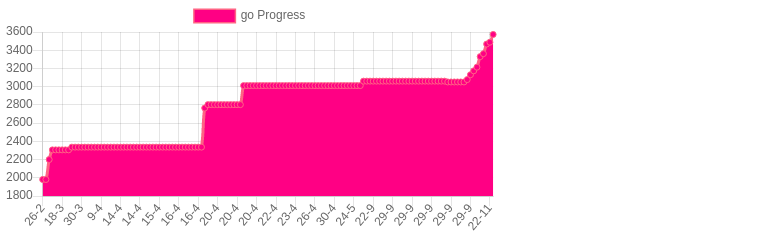
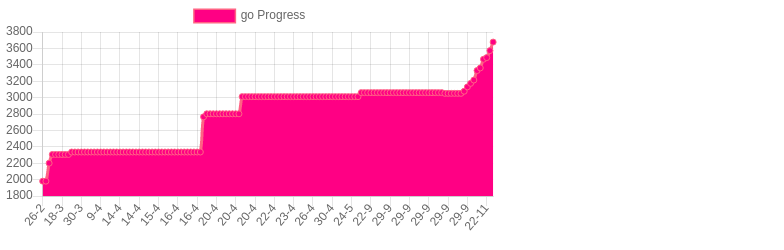
GO: gin login and logout

diff --git a/total.html b/total.html
@@ -9,7 +9,7 @@
         <script src="https://cdn.jsdelivr.net/npm/chart.js@2.8.0"></script>
         <script>
           var ctx = document.getElementById("total").getContext("2d");
-          const goLabelsDates = ["2021-02-27T01:37:43.112Z","2021-02-27T01:38:01.628Z","2021-03-01T13:41:18.753Z","2021-03-01T14:53:41.991Z","2021-03-01T15:08:00.851Z","2021-03-01T15:09:10.635Z","2021-03-01T15:22:55.385Z","2021-03-03T15:31:41.151Z","2021-03-05T14:02:13.446Z","2021-03-10T14:50:13.297Z","2021-03-11T01:54:03.424Z","2021-03-11T15:32:47.647Z","2021-03-11T16:01:51.191Z","2021-03-12T00:36:04.646Z","2021-03-13T00:14:58.179Z","2021-03-16T05:30:04.043Z","2021-03-17T21:17:52.181Z","2021-03-18T03:42:56.998Z","2021-03-18T03:44:29.834Z","2021-03-18T03:45:35.160Z","2021-03-18T03:45:54.668Z","2021-03-18T03:48:46.007Z","2021-03-18T05:10:54.427Z","2021-03-18T05:44:13.724Z","2021-03-18T05:56:11.032Z","2021-03-18T22:11:28.339Z","2021-03-19T11:28:55.383Z","2021-03-22T13:51:43.977Z","2021-03-23T01:52:09.452Z","2021-03-23T15:45:53.765Z","2021-03-24T01:46:02.104Z","2021-03-30T10:56:50.711Z","2021-04-01T15:03:17.764Z","2021-04-01T23:15:02.096Z","2021-04-07T19:21:55.040Z","2021-04-08T15:21:14.479Z","2021-04-09T23:17:58.037Z","2021-04-09T23:32:26.341Z","2021-04-09T23:34:42.049Z","2021-04-09T23:36:18.092Z","2021-04-10T01:45:40.218Z","2021-04-12T15:41:26.676Z","2021-04-14T02:00:41.039Z","2021-04-14T20:02:44.141Z","2021-04-14T21:14:15.821Z","2021-04-14T22:06:37.573Z","2021-04-14T22:42:14.693Z","2021-04-14T23:10:13.243Z","2021-04-14T23:22:54.824Z","2021-04-14T23:49:37.009Z","2021-04-15T02:28:51.974Z","2021-04-15T14:33:50.618Z","2021-04-15T15:09:11.104Z","2021-04-15T20:35:30.580Z","2021-04-16T00:04:33.158Z","2021-04-16T01:36:06.294Z","2021-04-16T01:53:35.992Z","2021-04-16T02:00:15.474Z","2021-04-16T16:08:40.977Z","2021-04-16T16:27:06.953Z","2021-04-16T16:59:30.526Z","2021-04-16T17:00:53.737Z","2021-04-16T23:14:36.283Z","2021-04-17T00:39:16.890Z","2021-04-17T01:11:09.986Z","2021-04-17T01:32:30.011Z","2021-04-17T01:44:22.446Z","2021-04-17T01:44:33.941Z","2021-04-17T02:35:55.774Z","2021-04-19T15:41:31.091Z","2021-04-20T15:32:32.239Z","2021-04-20T15:33:16.014Z","2021-04-20T15:36:11.438Z","2021-04-20T15:38:44.606Z","2021-04-20T15:41:50.350Z","2021-04-20T15:44:34.448Z","2021-04-20T15:46:49.295Z","2021-04-20T15:47:24.048Z","2021-04-20T15:56:22.046Z","2021-04-20T16:00:02.540Z","2021-04-20T16:01:15.511Z","2021-04-20T23:19:23.938Z","2021-04-21T00:40:54.443Z","2021-04-21T00:47:22.662Z","2021-04-21T02:01:09.006Z","2021-04-21T02:19:22.734Z","2021-04-21T15:53:36.038Z","2021-04-21T16:21:45.704Z","2021-04-21T16:26:32.790Z","2021-04-21T16:40:24.916Z","2021-04-21T16:43:40.235Z","2021-04-21T16:43:59.719Z","2021-04-21T16:44:40.304Z","2021-04-21T16:46:13.191Z","2021-04-21T16:48:41.898Z","2021-04-21T16:49:08.753Z","2021-04-21T16:50:32.397Z","2021-04-21T16:51:58.778Z","2021-04-23T00:49:32.826Z","2021-04-23T15:03:06.320Z","2021-04-23T15:04:13.039Z","2021-04-23T15:05:25.923Z","2021-04-23T15:11:04.285Z","2021-04-23T15:11:38.826Z","2021-04-23T15:12:05.618Z","2021-04-23T15:12:32.508Z","2021-04-23T15:13:17.058Z","2021-04-23T17:08:27.046Z","2021-04-23T18:02:30.357Z","2021-04-23T22:58:36.946Z","2021-04-23T23:00:26.027Z","2021-04-23T23:52:58.438Z","2021-04-24T01:12:51.525Z","2021-04-24T02:01:46.612Z","2021-04-26T12:46:47.336Z","2021-04-26T13:13:50.946Z","2021-04-26T13:16:04.473Z","2021-04-27T00:11:42.582Z","2021-04-30T03:26:37.101Z","2021-04-30T04:33:42.472Z","2021-04-30T05:15:42.646Z","2021-04-30T14:31:10.927Z","2021-05-04T01:51:49.907Z","2021-05-21T00:30:21.777Z","2021-05-24T15:07:09.579Z","2021-05-24T15:08:05.658Z","2021-05-24T15:22:20.903Z","2021-05-24T15:33:34.626Z","2021-05-24T15:46:16.101Z","2021-05-24T15:48:12.171Z","2021-05-24T15:53:54.498Z","2021-05-24T15:56:18.488Z","2021-05-28T22:50:32.914Z","2021-06-02T17:58:30.866Z","2021-07-01T05:04:25.826Z","2021-07-01T05:05:33.079Z","2021-09-03T16:56:54.023Z","2021-09-23T00:10:19.737Z","2021-09-23T00:54:30.987Z","2021-09-25T00:13:33.106Z","2021-09-25T00:56:09.874Z","2021-09-29T20:37:10.460Z","2021-09-29T20:39:45.107Z","2021-09-29T20:45:08.406Z","2021-09-29T20:45:42.995Z","2021-09-29T20:51:54.166Z","2021-09-29T21:04:45.487Z","2021-09-29T21:22:49.580Z","2021-09-29T21:23:34.860Z","2021-09-29T21:24:52.804Z","2021-09-29T21:25:12.938Z","2021-09-29T21:31:41.466Z","2021-09-29T21:32:02.856Z","2021-09-29T21:32:15.096Z","2021-09-29T21:37:01.273Z","2021-09-29T21:39:46.109Z","2021-09-29T21:40:23.862Z","2021-09-29T21:41:38.242Z","2021-09-29T21:45:36.053Z","2021-09-29T21:48:31.229Z","2021-09-29T21:49:46.414Z","2021-09-29T21:50:16.628Z","2021-09-29T21:52:23.035Z","2021-09-29T21:58:46.153Z","2021-09-29T21:59:06.075Z","2021-09-29T22:09:34.545Z","2021-09-29T22:24:59.487Z","2021-09-29T22:39:38.616Z","2021-09-29T23:07:40.178Z","2021-10-01T13:21:48.217Z","2021-10-01T14:11:47.682Z","2021-10-05T00:24:42.303Z","2021-10-05T14:36:34.233Z","2021-10-05T15:30:47.628Z","2021-10-13T14:16:32.194Z","2021-10-14T20:31:14.540Z","2021-10-15T02:04:50.667Z","2021-10-22T22:01:46.214Z","2021-10-26T00:04:54.365Z","2021-10-26T00:05:44.432Z","2021-10-26T13:52:24.065Z","2021-10-26T14:08:20.572Z","2021-11-11T01:24:39.296Z","2021-11-11T02:12:58.681Z","2021-11-11T03:09:01.800Z","2021-11-12T02:26:28.025Z","2021-11-20T00:54:03.498Z","2021-11-20T01:56:10.259Z","2021-11-23T01:08:04.347Z","2021-11-23T01:36:10.103Z","2021-11-23T23:01:06.868Z",];
+          const goLabelsDates = ["2021-02-27T01:37:43.112Z","2021-02-27T01:38:01.628Z","2021-03-01T13:41:18.753Z","2021-03-01T14:53:41.991Z","2021-03-01T15:08:00.851Z","2021-03-01T15:09:10.635Z","2021-03-01T15:22:55.385Z","2021-03-03T15:31:41.151Z","2021-03-05T14:02:13.446Z","2021-03-10T14:50:13.297Z","2021-03-11T01:54:03.424Z","2021-03-11T15:32:47.647Z","2021-03-11T16:01:51.191Z","2021-03-12T00:36:04.646Z","2021-03-13T00:14:58.179Z","2021-03-16T05:30:04.043Z","2021-03-17T21:17:52.181Z","2021-03-18T03:42:56.998Z","2021-03-18T03:44:29.834Z","2021-03-18T03:45:35.160Z","2021-03-18T03:45:54.668Z","2021-03-18T03:48:46.007Z","2021-03-18T05:10:54.427Z","2021-03-18T05:44:13.724Z","2021-03-18T05:56:11.032Z","2021-03-18T22:11:28.339Z","2021-03-19T11:28:55.383Z","2021-03-22T13:51:43.977Z","2021-03-23T01:52:09.452Z","2021-03-23T15:45:53.765Z","2021-03-24T01:46:02.104Z","2021-03-30T10:56:50.711Z","2021-04-01T15:03:17.764Z","2021-04-01T23:15:02.096Z","2021-04-07T19:21:55.040Z","2021-04-08T15:21:14.479Z","2021-04-09T23:17:58.037Z","2021-04-09T23:32:26.341Z","2021-04-09T23:34:42.049Z","2021-04-09T23:36:18.092Z","2021-04-10T01:45:40.218Z","2021-04-12T15:41:26.676Z","2021-04-14T02:00:41.039Z","2021-04-14T20:02:44.141Z","2021-04-14T21:14:15.821Z","2021-04-14T22:06:37.573Z","2021-04-14T22:42:14.693Z","2021-04-14T23:10:13.243Z","2021-04-14T23:22:54.824Z","2021-04-14T23:49:37.009Z","2021-04-15T02:28:51.974Z","2021-04-15T14:33:50.618Z","2021-04-15T15:09:11.104Z","2021-04-15T20:35:30.580Z","2021-04-16T00:04:33.158Z","2021-04-16T01:36:06.294Z","2021-04-16T01:53:35.992Z","2021-04-16T02:00:15.474Z","2021-04-16T16:08:40.977Z","2021-04-16T16:27:06.953Z","2021-04-16T16:59:30.526Z","2021-04-16T17:00:53.737Z","2021-04-16T23:14:36.283Z","2021-04-17T00:39:16.890Z","2021-04-17T01:11:09.986Z","2021-04-17T01:32:30.011Z","2021-04-17T01:44:22.446Z","2021-04-17T01:44:33.941Z","2021-04-17T02:35:55.774Z","2021-04-19T15:41:31.091Z","2021-04-20T15:32:32.239Z","2021-04-20T15:33:16.014Z","2021-04-20T15:36:11.438Z","2021-04-20T15:38:44.606Z","2021-04-20T15:41:50.350Z","2021-04-20T15:44:34.448Z","2021-04-20T15:46:49.295Z","2021-04-20T15:47:24.048Z","2021-04-20T15:56:22.046Z","2021-04-20T16:00:02.540Z","2021-04-20T16:01:15.511Z","2021-04-20T23:19:23.938Z","2021-04-21T00:40:54.443Z","2021-04-21T00:47:22.662Z","2021-04-21T02:01:09.006Z","2021-04-21T02:19:22.734Z","2021-04-21T15:53:36.038Z","2021-04-21T16:21:45.704Z","2021-04-21T16:26:32.790Z","2021-04-21T16:40:24.916Z","2021-04-21T16:43:40.235Z","2021-04-21T16:43:59.719Z","2021-04-21T16:44:40.304Z","2021-04-21T16:46:13.191Z","2021-04-21T16:48:41.898Z","2021-04-21T16:49:08.753Z","2021-04-21T16:50:32.397Z","2021-04-21T16:51:58.778Z","2021-04-23T00:49:32.826Z","2021-04-23T15:03:06.320Z","2021-04-23T15:04:13.039Z","2021-04-23T15:05:25.923Z","2021-04-23T15:11:04.285Z","2021-04-23T15:11:38.826Z","2021-04-23T15:12:05.618Z","2021-04-23T15:12:32.508Z","2021-04-23T15:13:17.058Z","2021-04-23T17:08:27.046Z","2021-04-23T18:02:30.357Z","2021-04-23T22:58:36.946Z","2021-04-23T23:00:26.027Z","2021-04-23T23:52:58.438Z","2021-04-24T01:12:51.525Z","2021-04-24T02:01:46.612Z","2021-04-26T12:46:47.336Z","2021-04-26T13:13:50.946Z","2021-04-26T13:16:04.473Z","2021-04-27T00:11:42.582Z","2021-04-30T03:26:37.101Z","2021-04-30T04:33:42.472Z","2021-04-30T05:15:42.646Z","2021-04-30T14:31:10.927Z","2021-05-04T01:51:49.907Z","2021-05-21T00:30:21.777Z","2021-05-24T15:07:09.579Z","2021-05-24T15:08:05.658Z","2021-05-24T15:22:20.903Z","2021-05-24T15:33:34.626Z","2021-05-24T15:46:16.101Z","2021-05-24T15:48:12.171Z","2021-05-24T15:53:54.498Z","2021-05-24T15:56:18.488Z","2021-05-28T22:50:32.914Z","2021-06-02T17:58:30.866Z","2021-07-01T05:04:25.826Z","2021-07-01T05:05:33.079Z","2021-09-03T16:56:54.023Z","2021-09-23T00:10:19.737Z","2021-09-23T00:54:30.987Z","2021-09-25T00:13:33.106Z","2021-09-25T00:56:09.874Z","2021-09-29T20:37:10.460Z","2021-09-29T20:39:45.107Z","2021-09-29T20:45:08.406Z","2021-09-29T20:45:42.995Z","2021-09-29T20:51:54.166Z","2021-09-29T21:04:45.487Z","2021-09-29T21:22:49.580Z","2021-09-29T21:23:34.860Z","2021-09-29T21:24:52.804Z","2021-09-29T21:25:12.938Z","2021-09-29T21:31:41.466Z","2021-09-29T21:32:02.856Z","2021-09-29T21:32:15.096Z","2021-09-29T21:37:01.273Z","2021-09-29T21:39:46.109Z","2021-09-29T21:40:23.862Z","2021-09-29T21:41:38.242Z","2021-09-29T21:45:36.053Z","2021-09-29T21:48:31.229Z","2021-09-29T21:49:46.414Z","2021-09-29T21:50:16.628Z","2021-09-29T21:52:23.035Z","2021-09-29T21:58:46.153Z","2021-09-29T21:59:06.075Z","2021-09-29T22:09:34.545Z","2021-09-29T22:24:59.487Z","2021-09-29T22:39:38.616Z","2021-09-29T23:07:40.178Z","2021-10-01T13:21:48.217Z","2021-10-01T14:11:47.682Z","2021-10-05T00:24:42.303Z","2021-10-05T14:36:34.233Z","2021-10-05T15:30:47.628Z","2021-10-13T14:16:32.194Z","2021-10-14T20:31:14.540Z","2021-10-15T02:04:50.667Z","2021-10-22T22:01:46.214Z","2021-10-26T00:04:54.365Z","2021-10-26T00:05:44.432Z","2021-10-26T13:52:24.065Z","2021-10-26T14:08:20.572Z","2021-11-11T01:24:39.296Z","2021-11-11T02:12:58.681Z","2021-11-11T03:09:01.800Z","2021-11-12T02:26:28.025Z","2021-11-20T00:54:03.498Z","2021-11-20T01:56:10.259Z","2021-11-23T01:08:04.347Z","2021-11-23T01:36:10.103Z","2021-11-23T23:01:06.868Z","2021-12-23T17:01:27.655Z",];
           var chart = new Chart(ctx, {
             type: 'line',
             data: {
@@ -18,7 +18,7 @@
                 label: 'total Progress',
                 backgroundColor: 'rgb(255, 0, 132)',
                 borderColor: 'rgb(255, 99, 132)',
-                data: [7975,7975,8307,8526,8526,8527,8573,9171,9358,9751,9908,10232,10231,10643,10911,11353,12576,12666,0,0,169,12835,12906,12953,12953,13141,13254,13354,13406,13417,13568,13708,13845,14886,15140,15267,15766,15777,15777,15777,16211,16345,17062,17247,17324,17464,17697,17849,17916,18002,18002,18202,18292,18515,18590,18744,18837,18876,19030,19086,19114,19143,19378,19465,19607,19714,19782,19782,19791,20220,20257,20257,20257,20257,20257,20257,20257,20257,20257,20257,20257,21179,21238,21279,21319,21319,21430,21506,21543,65995,0,44452,44452,44452,20233,20233,1629,23172,23326,23693,23693,23693,23693,23693,23693,23693,23693,23693,23693,23693,23693,23905,24023,24262,24275,24376,24376,24452,25078,25182,25238,25232,25233,25334,23696,25427,25453,25466,25491,11565,5707,5707,4421,4535,4535,3678,3678,3678,5861,5318,5422,5473,12667,12667,12667,12667,12667,12667,12667,12667,12667,12667,12667,12667,12667,12667,12667,12667,12667,12667,12658,12658,12657,12657,12657,12657,12683,12736,12779,12888,2619,2775,9772,9922,10674,1795,1824,2002,2000,422,468,543,2427,2526,2611,2684,13391,13661,13756,652,6494,]
+                data: [7975,7975,8307,8526,8526,8527,8573,9171,9358,9751,9908,10232,10231,10643,10911,11353,12576,12666,0,0,169,12835,12906,12953,12953,13141,13254,13354,13406,13417,13568,13708,13845,14886,15140,15267,15766,15777,15777,15777,16211,16345,17062,17247,17324,17464,17697,17849,17916,18002,18002,18202,18292,18515,18590,18744,18837,18876,19030,19086,19114,19143,19378,19465,19607,19714,19782,19782,19791,20220,20257,20257,20257,20257,20257,20257,20257,20257,20257,20257,20257,21179,21238,21279,21319,21319,21430,21506,21543,65995,0,44452,44452,44452,20233,20233,1629,23172,23326,23693,23693,23693,23693,23693,23693,23693,23693,23693,23693,23693,23693,23905,24023,24262,24275,24376,24376,24452,25078,25182,25238,25232,25233,25334,23696,25427,25453,25466,25491,11565,5707,5707,4421,4535,4535,3678,3678,3678,5861,5318,5422,5473,12667,12667,12667,12667,12667,12667,12667,12667,12667,12667,12667,12667,12667,12667,12667,12667,12667,12667,12658,12658,12657,12657,12657,12657,12683,12736,12779,12888,2619,2775,9772,9922,10674,1795,1824,2002,2000,422,468,543,2427,2526,2611,2684,13391,13661,13756,652,6494,3677,]
               }]
             },
           });

diff --git a/go.html b/go.html
@@ -9,7 +9,7 @@
         <script src="https://cdn.jsdelivr.net/npm/chart.js@2.8.0"></script>
         <script>
           var ctx = document.getElementById("go").getContext("2d");
-          const goLabelsDates = ["2021-02-27T01:37:43.111Z","2021-02-27T01:38:01.627Z","2021-03-01T14:53:41.990Z","2021-03-16T05:30:04.043Z","2021-03-18T05:44:13.724Z","2021-03-18T05:56:11.032Z","2021-03-18T22:11:28.339Z","2021-03-19T11:28:55.382Z","2021-03-22T13:51:43.976Z","2021-03-23T01:52:09.451Z","2021-03-23T15:45:53.764Z","2021-03-24T01:46:02.103Z","2021-03-30T10:56:50.710Z","2021-04-01T15:03:17.763Z","2021-04-01T23:15:02.095Z","2021-04-07T19:21:55.038Z","2021-04-08T15:21:14.478Z","2021-04-09T23:17:58.035Z","2021-04-09T23:32:26.340Z","2021-04-09T23:34:42.047Z","2021-04-09T23:36:18.091Z","2021-04-10T01:45:40.217Z","2021-04-12T15:41:26.675Z","2021-04-14T02:00:41.039Z","2021-04-14T20:02:44.140Z","2021-04-14T21:14:15.820Z","2021-04-14T22:06:37.573Z","2021-04-14T22:42:14.693Z","2021-04-14T23:10:13.242Z","2021-04-14T23:22:54.823Z","2021-04-14T23:49:37.009Z","2021-04-15T02:28:51.973Z","2021-04-15T14:33:50.618Z","2021-04-15T15:09:11.102Z","2021-04-15T20:35:30.579Z","2021-04-16T00:04:33.157Z","2021-04-16T01:36:06.293Z","2021-04-16T01:53:35.991Z","2021-04-16T02:00:15.472Z","2021-04-16T16:08:40.975Z","2021-04-16T16:27:06.952Z","2021-04-16T16:59:30.524Z","2021-04-16T17:00:53.733Z","2021-04-16T23:14:36.282Z","2021-04-17T00:39:16.888Z","2021-04-17T01:11:09.985Z","2021-04-17T01:32:30.008Z","2021-04-17T01:44:22.444Z","2021-04-17T01:44:33.940Z","2021-04-17T02:35:55.773Z","2021-04-19T15:41:31.090Z","2021-04-20T15:32:32.238Z","2021-04-20T15:33:16.013Z","2021-04-20T15:36:11.438Z","2021-04-20T15:38:44.605Z","2021-04-20T15:41:50.349Z","2021-04-20T15:44:34.447Z","2021-04-20T15:46:49.294Z","2021-04-20T15:47:24.047Z","2021-04-20T15:56:22.045Z","2021-04-20T16:00:02.539Z","2021-04-20T16:01:15.510Z","2021-04-20T23:19:23.937Z","2021-04-21T00:40:54.442Z","2021-04-21T00:47:22.661Z","2021-04-21T02:01:09.005Z","2021-04-21T02:19:22.733Z","2021-04-21T15:53:36.037Z","2021-04-21T16:21:45.703Z","2021-04-21T16:26:32.789Z","2021-04-21T16:40:24.916Z","2021-04-21T16:51:58.777Z","2021-04-23T00:49:32.825Z","2021-04-23T15:03:06.327Z","2021-04-23T15:04:13.044Z","2021-04-23T15:05:25.923Z","2021-04-23T15:13:17.062Z","2021-04-23T17:08:27.045Z","2021-04-23T18:02:30.354Z","2021-04-23T22:58:36.945Z","2021-04-23T23:00:26.027Z","2021-04-23T23:52:58.438Z","2021-04-24T01:12:51.524Z","2021-04-24T02:01:46.611Z","2021-04-26T12:46:47.335Z","2021-04-26T13:13:50.945Z","2021-04-26T13:16:04.471Z","2021-04-27T00:11:42.580Z","2021-04-30T03:26:37.098Z","2021-04-30T04:33:42.472Z","2021-04-30T05:15:42.645Z","2021-04-30T14:31:10.926Z","2021-05-04T01:51:49.906Z","2021-05-21T00:30:21.772Z","2021-05-24T15:07:09.573Z","2021-05-24T15:08:05.657Z","2021-05-24T15:22:20.902Z","2021-05-24T15:33:34.625Z","2021-05-24T15:46:16.101Z","2021-07-01T05:05:33.078Z","2021-09-03T16:56:54.022Z","2021-09-23T00:10:19.736Z","2021-09-23T00:54:30.986Z","2021-09-25T00:13:33.105Z","2021-09-25T00:56:09.873Z","2021-09-29T20:37:10.456Z","2021-09-29T20:39:45.106Z","2021-09-29T20:45:08.405Z","2021-09-29T20:45:42.993Z","2021-09-29T20:51:54.165Z","2021-09-29T21:04:45.485Z","2021-09-29T21:22:49.578Z","2021-09-29T21:23:34.859Z","2021-09-29T21:24:52.803Z","2021-09-29T21:25:12.936Z","2021-09-29T21:31:41.464Z","2021-09-29T21:32:02.853Z","2021-09-29T21:32:15.094Z","2021-09-29T21:36:24.777Z","2021-09-29T21:37:01.271Z","2021-09-29T21:39:46.106Z","2021-09-29T21:40:23.860Z","2021-09-29T21:41:38.229Z","2021-09-29T21:45:36.049Z","2021-09-29T21:48:31.220Z","2021-09-29T21:49:46.410Z","2021-09-29T21:50:16.624Z","2021-09-29T21:52:23.032Z","2021-09-29T21:58:46.150Z","2021-09-29T21:59:06.072Z","2021-09-29T22:09:34.542Z","2021-09-29T22:24:59.484Z","2021-09-29T22:39:38.613Z","2021-09-29T23:07:40.175Z","2021-10-01T13:21:48.213Z","2021-10-13T14:16:32.192Z","2021-11-20T00:54:03.493Z","2021-11-20T01:56:10.254Z","2021-11-23T01:08:04.342Z","2021-11-23T23:01:06.863Z",];
+          const goLabelsDates = ["2021-02-27T01:37:43.111Z","2021-02-27T01:38:01.627Z","2021-03-01T14:53:41.990Z","2021-03-16T05:30:04.043Z","2021-03-18T05:44:13.724Z","2021-03-18T05:56:11.032Z","2021-03-18T22:11:28.339Z","2021-03-19T11:28:55.382Z","2021-03-22T13:51:43.976Z","2021-03-23T01:52:09.451Z","2021-03-23T15:45:53.764Z","2021-03-24T01:46:02.103Z","2021-03-30T10:56:50.710Z","2021-04-01T15:03:17.763Z","2021-04-01T23:15:02.095Z","2021-04-07T19:21:55.038Z","2021-04-08T15:21:14.478Z","2021-04-09T23:17:58.035Z","2021-04-09T23:32:26.340Z","2021-04-09T23:34:42.047Z","2021-04-09T23:36:18.091Z","2021-04-10T01:45:40.217Z","2021-04-12T15:41:26.675Z","2021-04-14T02:00:41.039Z","2021-04-14T20:02:44.140Z","2021-04-14T21:14:15.820Z","2021-04-14T22:06:37.573Z","2021-04-14T22:42:14.693Z","2021-04-14T23:10:13.242Z","2021-04-14T23:22:54.823Z","2021-04-14T23:49:37.009Z","2021-04-15T02:28:51.973Z","2021-04-15T14:33:50.618Z","2021-04-15T15:09:11.102Z","2021-04-15T20:35:30.579Z","2021-04-16T00:04:33.157Z","2021-04-16T01:36:06.293Z","2021-04-16T01:53:35.991Z","2021-04-16T02:00:15.472Z","2021-04-16T16:08:40.975Z","2021-04-16T16:27:06.952Z","2021-04-16T16:59:30.524Z","2021-04-16T17:00:53.733Z","2021-04-16T23:14:36.282Z","2021-04-17T00:39:16.888Z","2021-04-17T01:11:09.985Z","2021-04-17T01:32:30.008Z","2021-04-17T01:44:22.444Z","2021-04-17T01:44:33.940Z","2021-04-17T02:35:55.773Z","2021-04-19T15:41:31.090Z","2021-04-20T15:32:32.238Z","2021-04-20T15:33:16.013Z","2021-04-20T15:36:11.438Z","2021-04-20T15:38:44.605Z","2021-04-20T15:41:50.349Z","2021-04-20T15:44:34.447Z","2021-04-20T15:46:49.294Z","2021-04-20T15:47:24.047Z","2021-04-20T15:56:22.045Z","2021-04-20T16:00:02.539Z","2021-04-20T16:01:15.510Z","2021-04-20T23:19:23.937Z","2021-04-21T00:40:54.442Z","2021-04-21T00:47:22.661Z","2021-04-21T02:01:09.005Z","2021-04-21T02:19:22.733Z","2021-04-21T15:53:36.037Z","2021-04-21T16:21:45.703Z","2021-04-21T16:26:32.789Z","2021-04-21T16:40:24.916Z","2021-04-21T16:51:58.777Z","2021-04-23T00:49:32.825Z","2021-04-23T15:03:06.327Z","2021-04-23T15:04:13.044Z","2021-04-23T15:05:25.923Z","2021-04-23T15:13:17.062Z","2021-04-23T17:08:27.045Z","2021-04-23T18:02:30.354Z","2021-04-23T22:58:36.945Z","2021-04-23T23:00:26.027Z","2021-04-23T23:52:58.438Z","2021-04-24T01:12:51.524Z","2021-04-24T02:01:46.611Z","2021-04-26T12:46:47.335Z","2021-04-26T13:13:50.945Z","2021-04-26T13:16:04.471Z","2021-04-27T00:11:42.580Z","2021-04-30T03:26:37.098Z","2021-04-30T04:33:42.472Z","2021-04-30T05:15:42.645Z","2021-04-30T14:31:10.926Z","2021-05-04T01:51:49.906Z","2021-05-21T00:30:21.772Z","2021-05-24T15:07:09.573Z","2021-05-24T15:08:05.657Z","2021-05-24T15:22:20.902Z","2021-05-24T15:33:34.625Z","2021-05-24T15:46:16.101Z","2021-07-01T05:05:33.078Z","2021-09-03T16:56:54.022Z","2021-09-23T00:10:19.736Z","2021-09-23T00:54:30.986Z","2021-09-25T00:13:33.105Z","2021-09-25T00:56:09.873Z","2021-09-29T20:37:10.456Z","2021-09-29T20:39:45.106Z","2021-09-29T20:45:08.405Z","2021-09-29T20:45:42.993Z","2021-09-29T20:51:54.165Z","2021-09-29T21:04:45.485Z","2021-09-29T21:22:49.578Z","2021-09-29T21:23:34.859Z","2021-09-29T21:24:52.803Z","2021-09-29T21:25:12.936Z","2021-09-29T21:31:41.464Z","2021-09-29T21:32:02.853Z","2021-09-29T21:32:15.094Z","2021-09-29T21:36:24.777Z","2021-09-29T21:37:01.271Z","2021-09-29T21:39:46.106Z","2021-09-29T21:40:23.860Z","2021-09-29T21:41:38.229Z","2021-09-29T21:45:36.049Z","2021-09-29T21:48:31.220Z","2021-09-29T21:49:46.410Z","2021-09-29T21:50:16.624Z","2021-09-29T21:52:23.032Z","2021-09-29T21:58:46.150Z","2021-09-29T21:59:06.072Z","2021-09-29T22:09:34.542Z","2021-09-29T22:24:59.484Z","2021-09-29T22:39:38.613Z","2021-09-29T23:07:40.175Z","2021-10-01T13:21:48.213Z","2021-10-13T14:16:32.192Z","2021-11-20T00:54:03.493Z","2021-11-20T01:56:10.254Z","2021-11-23T01:08:04.342Z","2021-11-23T23:01:06.863Z","2021-12-23T17:01:27.650Z",];
           var chart = new Chart(ctx, {
             type: 'line',
             data: {
@@ -18,7 +18,7 @@
                 label: 'go Progress',
                 backgroundColor: 'rgb(255, 0, 132)',
                 borderColor: 'rgb(255, 99, 132)',
-                data: [1982,1982,2201,2307,2307,2307,2307,2307,2307,2337,2337,2337,2337,2337,2337,2337,2337,2337,2337,2337,2337,2337,2337,2337,2337,2337,2337,2337,2337,2337,2337,2337,2337,2337,2337,2337,2337,2337,2337,2337,2337,2337,2337,2337,2337,2337,2337,2337,2337,2337,2766,2803,2803,2803,2803,2803,2803,2803,2803,2803,2803,2803,3012,3012,3012,3012,3012,3012,3012,3012,3012,3012,3012,3012,3012,3012,3012,3012,3012,3012,3012,3012,3012,3012,3012,3012,3012,3012,3012,3012,3012,3012,3012,3012,3012,3012,3012,3012,3012,3061,3061,3061,3061,3061,3061,3061,3061,3061,3061,3061,3061,3061,3061,3061,3061,3061,3061,3061,3061,3061,3061,3061,3061,3061,3061,3052,3052,3052,3052,3052,3052,3078,3131,3174,3214,3330,3362,3468,3488,3573,]
+                data: [1982,1982,2201,2307,2307,2307,2307,2307,2307,2337,2337,2337,2337,2337,2337,2337,2337,2337,2337,2337,2337,2337,2337,2337,2337,2337,2337,2337,2337,2337,2337,2337,2337,2337,2337,2337,2337,2337,2337,2337,2337,2337,2337,2337,2337,2337,2337,2337,2337,2337,2766,2803,2803,2803,2803,2803,2803,2803,2803,2803,2803,2803,3012,3012,3012,3012,3012,3012,3012,3012,3012,3012,3012,3012,3012,3012,3012,3012,3012,3012,3012,3012,3012,3012,3012,3012,3012,3012,3012,3012,3012,3012,3012,3012,3012,3012,3012,3012,3012,3061,3061,3061,3061,3061,3061,3061,3061,3061,3061,3061,3061,3061,3061,3061,3061,3061,3061,3061,3061,3061,3061,3061,3061,3061,3061,3052,3052,3052,3052,3052,3052,3078,3131,3174,3214,3330,3362,3468,3488,3573,3677,]
               }]
             },
           });

diff --git a/config.js b/config.js
@@ -88,12 +88,12 @@ const configLn = [
     subjects: ["structs", "loops"],
     goal: 3000
   },
-  {
+  /* {
     ln: 'python',
     title: "python",
     subjects: ["collections", ""],
     goal: 2000
-  },
+  }, */
   /* {
     ln: 'ruby',
     title: "ruby",

diff --git a/Readme.md b/Readme.md
@@ -1,12 +1,11 @@
 # All count
 |Language|Goal|Lines%|%|%|%|Subjects|
 |----------|-------|-------|--------|--------|--------|--------|
-|go|10000|3573|36|![go](https://raw.githubusercontent.com/kapit4n/l-10000-dev/master/go.png)|structs, loops|consumingRESTfulAPI, data structures, design pattern, go slices, image file url, mysql, queue, web3, auth0, fiber example, defer feature, mux, face recognition|
-|python|10000|2921|29|![python](https://raw.githubusercontent.com/kapit4n/l-10000-dev/master/python.png)|collections, |algorithms, authentication jwt, authentication vs autorization, aws s3 boto3, django pdf, django tips, g cloud storage, login django, login flask, mysql, unit tests, web3, yield, auth0, face recognition, video face recognition|
-|TOTAL|6494|32.470%|
+|go|10000|3677|37|![go](https://raw.githubusercontent.com/kapit4n/l-10000-dev/master/go.png)|structs, loops|consumingRESTfulAPI, data structures, design pattern, go slices, image file url, mysql, queue, web3, auth0, gin auth, defer feature, fiber example, mux, face recognition|
+|TOTAL|3677|36.770%|
 10/02(0)
 
-10/03(6494)
+10/03(3677)
 
 
   # run it
@@ -29,4 +28,4 @@
   * Angular, React, Vue
   * Spring, Play
   * Scala, Java
-  , 2021-11-23T23:01:06.868Z
+  , 2021-12-23T17:01:27.655Z
